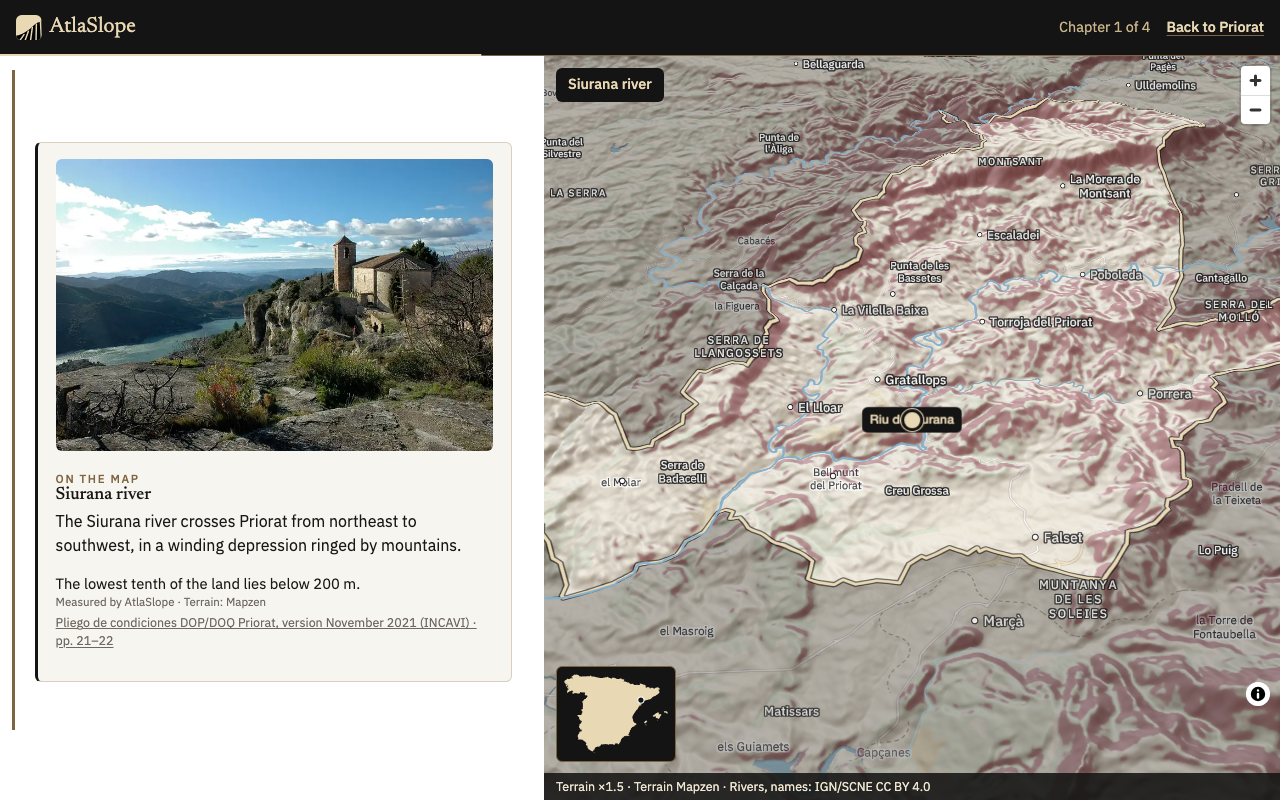
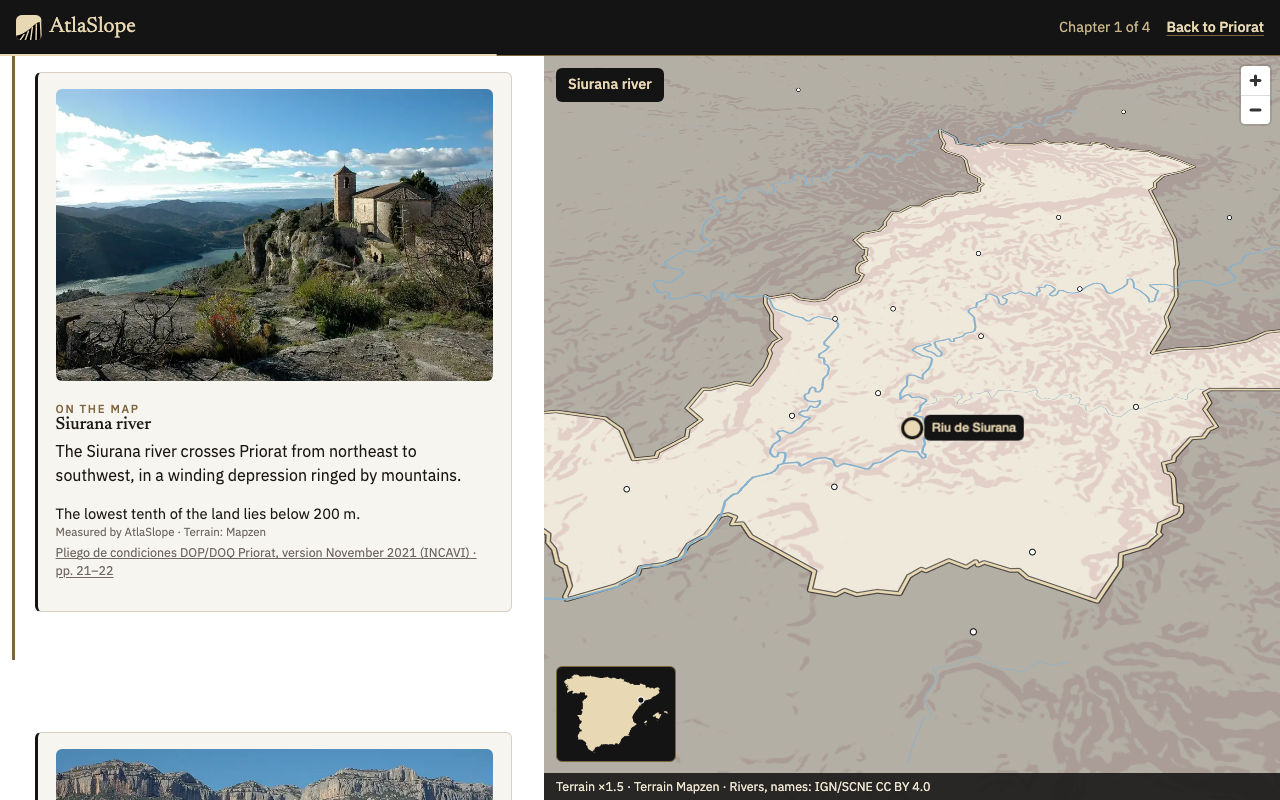
Story fixes: report, phone credit short forms

diff --git a/src/strings.ts b/src/strings.ts
@@ -470,11 +470,11 @@ export const strings = {
       dem: 'Terrain Mapzen',
       demShort: 'Mapzen',
       rivers: 'Rivers, names: IGN/SCNE CC BY 4.0',
-      riversShort: 'Rivers, names IGN',
+      riversShort: 'Rivers, names: IGN CC BY 4.0',
       geology: 'Source: IGME, MAGNA 50',
       geologyShort: 'Source: IGME, MAGNA 50',
       koppen: 'Climate: Beck et al. 2023 CC BY',
-      koppenShort: 'Beck 2023',
+      koppenShort: 'Beck et al. 2023 CC BY',
     },
   },
 } as const;

diff --git a/Review/story-build/fixes-report.md b/Review/story-build/fixes-report.md
@@ -1,7 +1,17 @@
 # Story fixes report (BuilderBot, branch agent/builder/story-fixes)
 
-In progress. One line per finding.
+Runs: `npx vitest run` 41 files, 372 tests pass (1.5 s); `npx playwright test tests/ui/story.spec.ts` 4 pass (9.6 s); `npm run build` ok (1.7 s). Shots taken with outside hosts blocked (no Esri key, base map only).
 
-- B1 fixed: label set after addTo; story-mk/story-dot get aria-hidden; UI test checks a "Fact: ..." button.
-- B2 fixed: credit and short form are "Source: IGME, MAGNA 50" (strings.ts); unit test updated.
-- B3 fixed: square crops for rioja-2 (40% 50%) and priorat-1 (10% 30%, moved left to keep the cypresses) in data/story/photo-focus-square.json (with file hash). Photo-crops.json not usable: its test rejects photos the Guides page does not show. Sheet: Review/story-build/shots/crops-square.png. storyList.ts uses it; test asserts focus and hash per listed photo.
+- B1 fixed: label set after addTo; story-mk and story-dot get aria-hidden; UI test checks a "Fact: ..." button.
+- B2 fixed: credit and phone short form are both "Source: IGME, MAGNA 50" (strings.ts); unit test updated.
+- B3 fixed: square crops for rioja-2 (40% 50%) and priorat-1 (10% 30%, moved left to keep the cypresses) in data/story/photo-focus-square.json, with file hash. Not in photoCrops.json: its test rejects photos the Guides page does not show. Sheet: shots/crops-square.png. storyList.ts uses it; test asserts focus and fresh hash per listed photo.
+- S1 fixed (StoryView.tsx): siblings of the story get `inert` while open; focus goes to "Back to <place>" on open and to the story button on close; story `<main>` is now a region (one main landmark). Focus return covered by the existing Escape UI test only; not separately asserted.
+- S2 fixed: user movestart bumps the flight token, so leg 2 is dropped.
+- S3 fixed: src/story/files.ts finds data/story/<names|rivers|slope>-<id>.*; layers skip a missing file; rivers credit only with a rivers file; tests/unit/story-files.test.ts. Left hard-coded: the `rioja` zone-label block in layers.ts (zones data is Rioja-only).
+- S4 fixed: phone credit wraps to two lines; short forms now "Rivers, names: IGN CC BY 4.0" and "Beck et al. 2023 CC BY"; locator and recentre lifted above it. Camera padding already measures the bar.
+- S5 fixed: onImageryFailed re-sends the last layer list with imagery false.
+- C Siurana label: fixed, labels now anchor left of their point (offset 12 px); shot story-priorat-siurana.png.
+- C phone legend: fixed, moved under the chip, full class names, clear of the locator; shot story-rioja-climate-phone.png. Review noted the credit cut over the text column: the strip is a separate bar now taller by one line, not re-checked against the text column below the map.
+- C geology legend: already shown at soils steps ("Colours: rock types, IGME MAGNA 50"), no change. Shot story-rioja-soils.png retaken (no key, so no imagery or geology tiles in it).
+
+Commits: 1c8a1fb (A), then B and C commit, then this report update.
